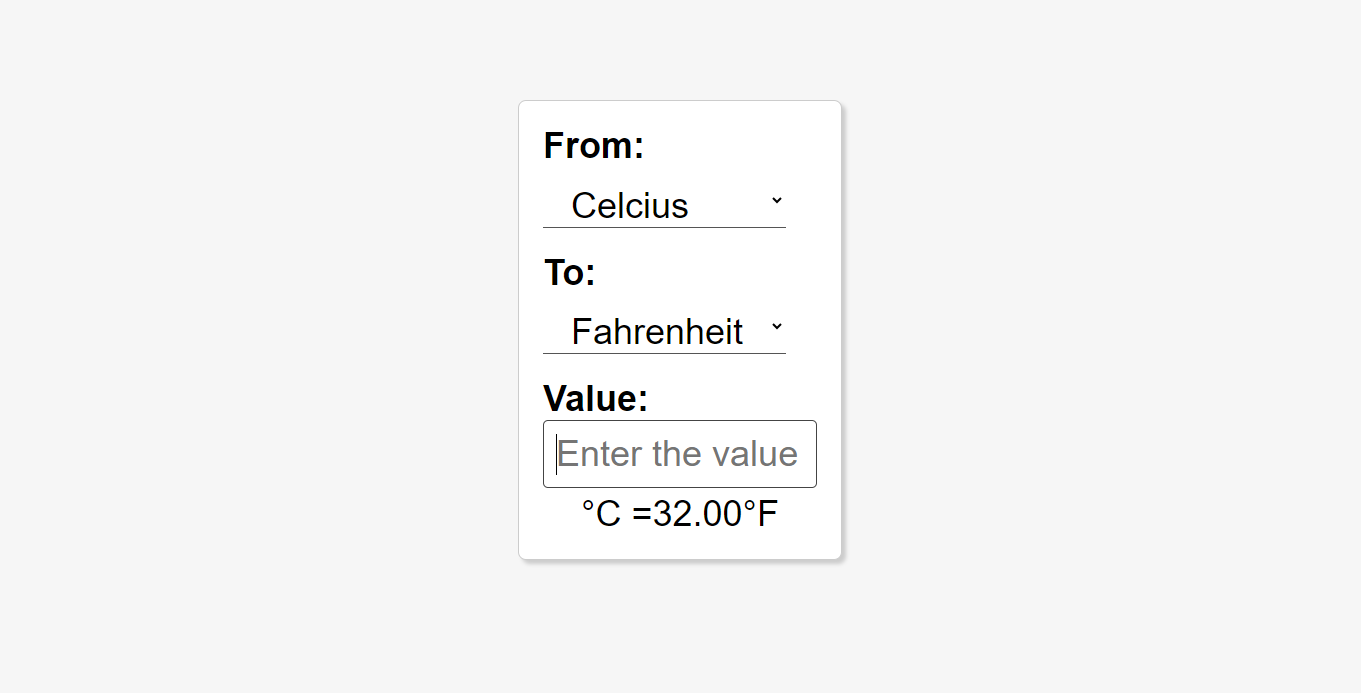
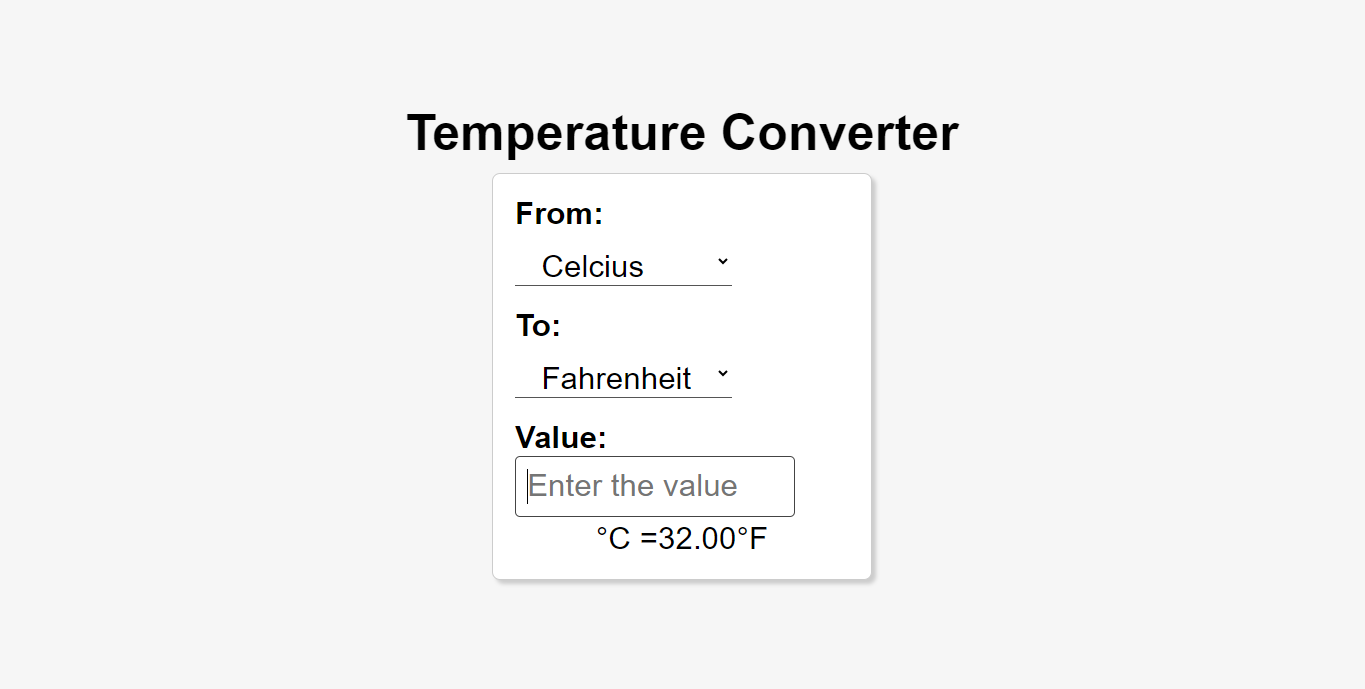
updates

Changed region(s): [[0.2777, 0.1524, 0.7098, 0.8534], [0.3703, 0.2743, 0.5246, 0.3353], [0.3703, 0.3657, 0.4629, 0.4267]]

diff --git a/small/temperature-converter/style.css b/small/temperature-converter/style.css
@@ -7,10 +7,18 @@
 }
 
 body {
-  display: grid;
-  place-items: center;
+  display: flex;
+  flex-direction: column;
+  align-items: center;
+  justify-content: center;
   background-color: #f6f6f6;
   padding-top: 6.5rem;
+}
+
+h1 {
+  margin-bottom: 0.5rem;
+  font-size: 1.5rem;
+  text-align: center;
 }
 
 #container {
@@ -64,6 +72,9 @@ Mediaquerries
 @media (min-width: 770px) {
   * {
     font-size: 1.4rem;
+  }
+  h1 {
+    font-size: 2.25rem;
   }
 }
 @media (min-width: 1025px) {

diff --git a/small/temperature-converter/index.html b/small/temperature-converter/index.html
@@ -11,6 +11,7 @@
     </head>
 
     <body>
+        <h1>Temperature Converter</h1>
         <div id="container">
             <div>
                 <label>From</label><br>
